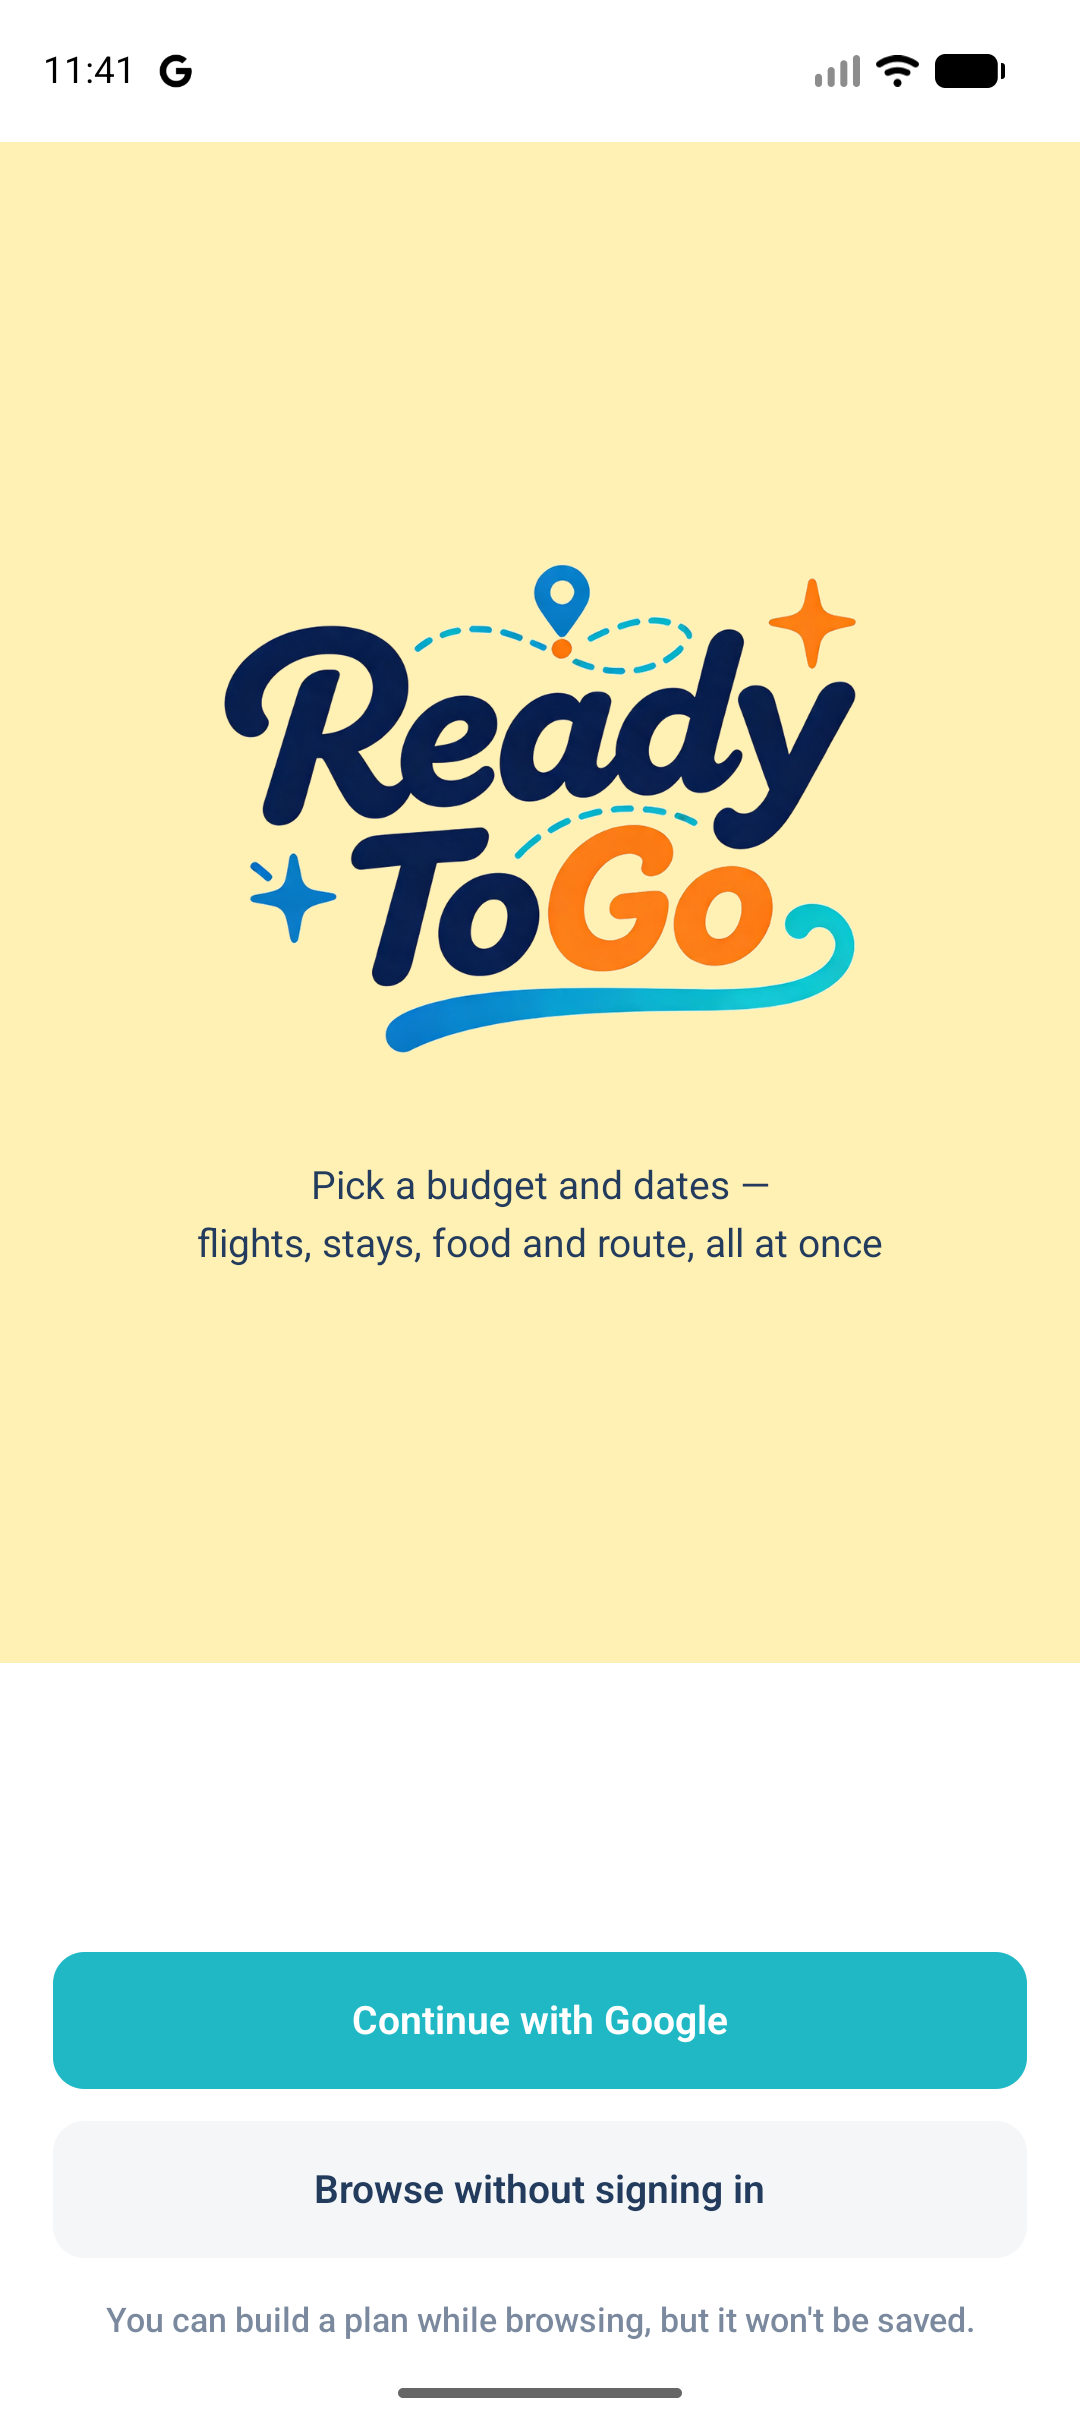
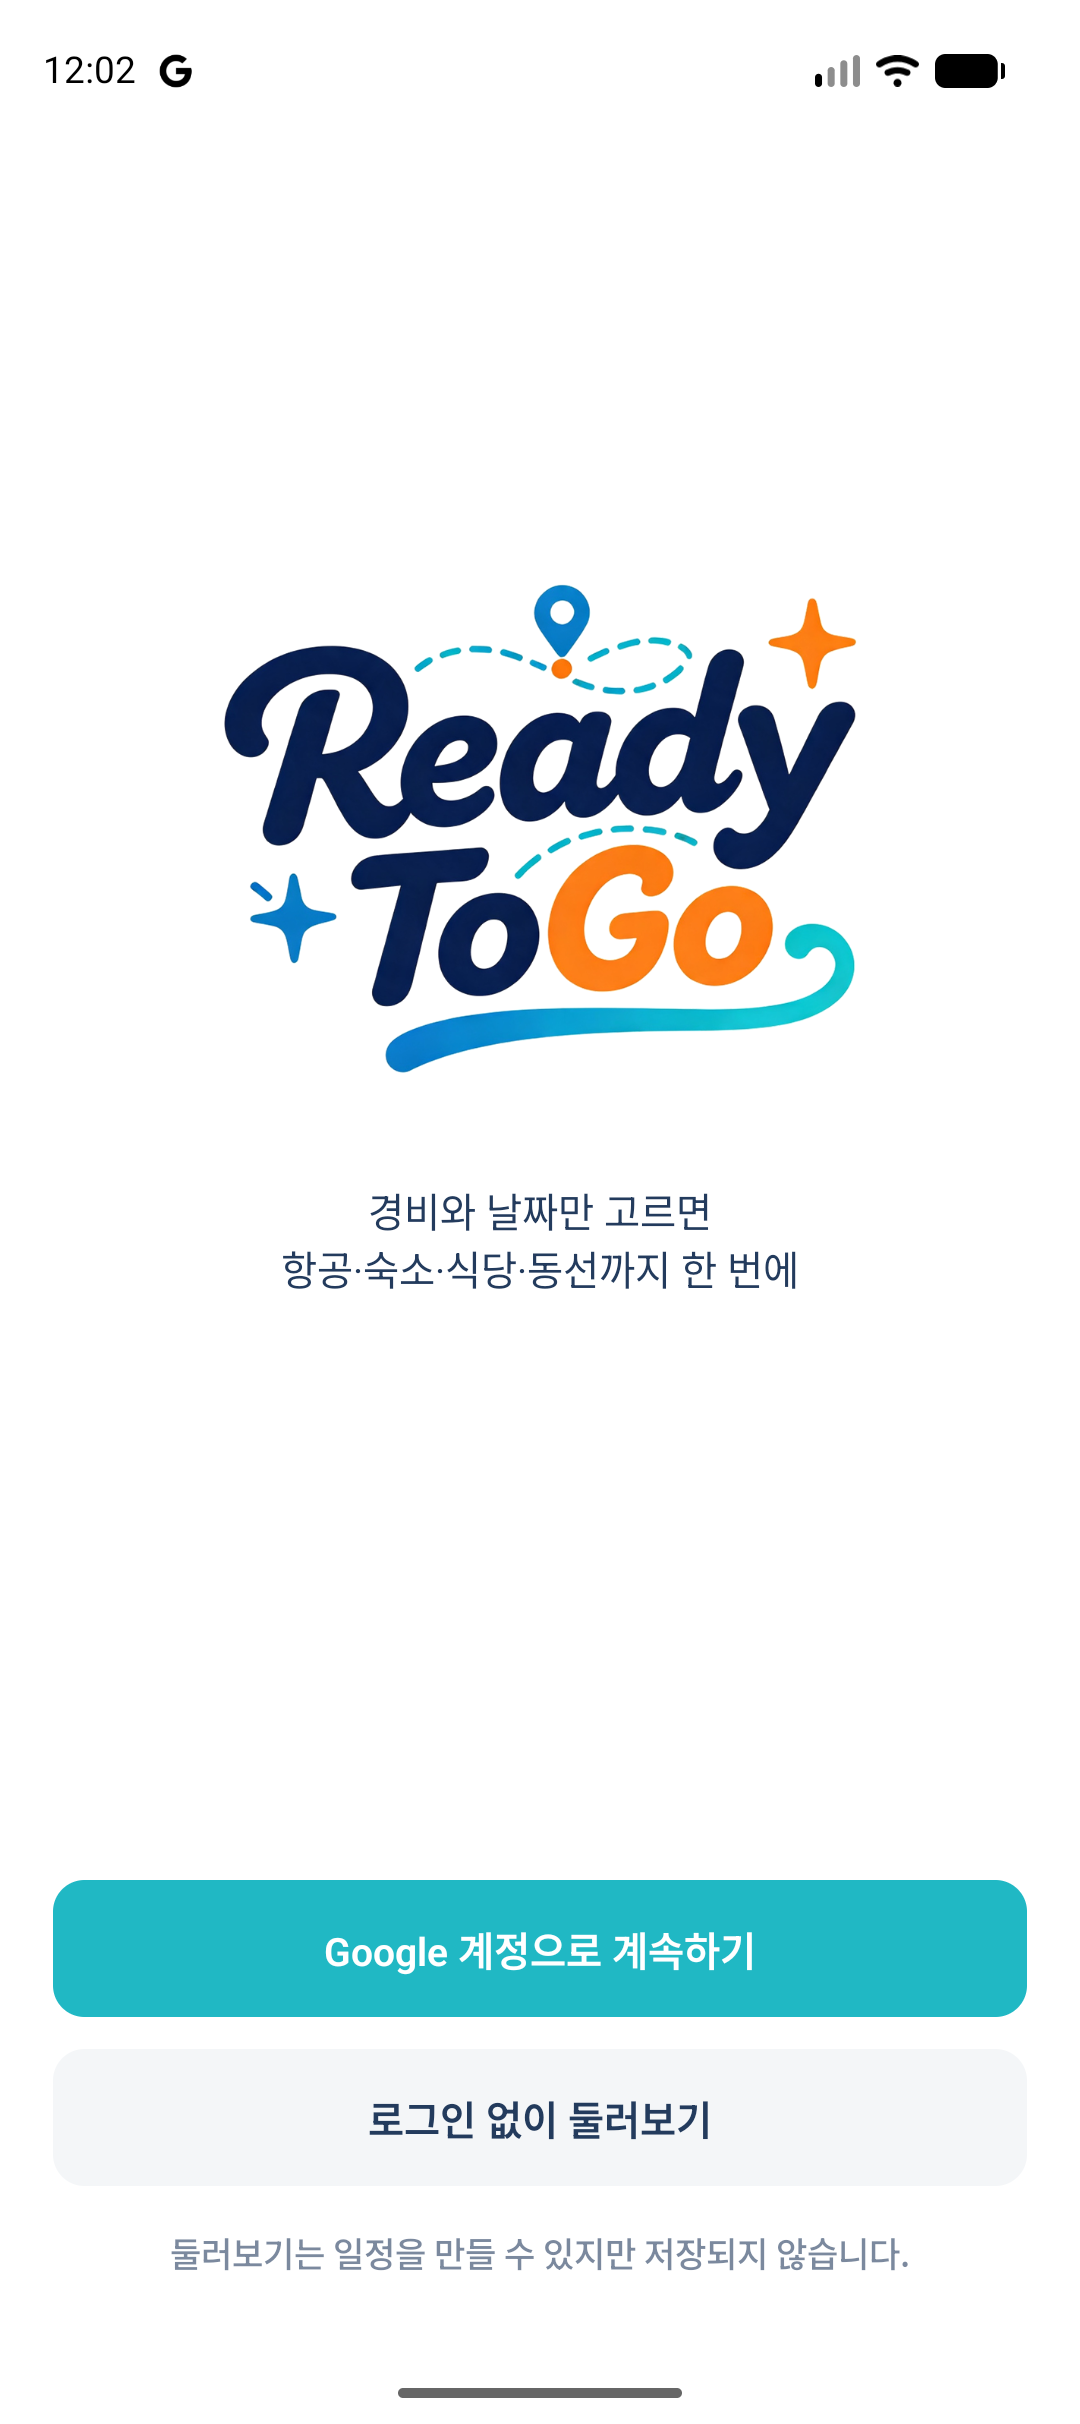
fix: 로그인 화면 배경을 흰색 한 가지 색으로
색 면이 화면 중간에서 잘려 배경이 아니라 머리띠처럼 보였다.
Surface 하나로 흰 배경을 깔고, 전용 GuestButton은 공용
SecondaryButton으로 되돌렸다.

캡처와 README의 "연노랑 영역" 설명도 같이 갱신했다.

diff --git a/app/src/main/java/kr/ac/baekseok/readytogo/ui/auth/LoginScreen.kt b/app/src/main/java/kr/ac/baekseok/readytogo/ui/auth/LoginScreen.kt
@@ -10,6 +10,7 @@ import androidx.compose.foundation.layout.fillMaxWidth
 import androidx.compose.foundation.layout.height
 import androidx.compose.foundation.layout.padding
 import androidx.compose.foundation.layout.size
+import androidx.compose.foundation.layout.systemBarsPadding
 import androidx.compose.foundation.shape.CircleShape
 import androidx.compose.material3.MaterialTheme
 import androidx.compose.material3.Surface
@@ -21,7 +22,6 @@ import androidx.compose.runtime.getValue
 import androidx.compose.ui.Alignment
 import androidx.compose.ui.Modifier
 import androidx.compose.ui.draw.clip
-import androidx.compose.ui.graphics.Brush
 import androidx.compose.ui.graphics.Color
 import androidx.compose.ui.platform.LocalContext
 import androidx.compose.ui.res.stringResource
@@ -69,93 +69,87 @@ fun LoginScreen(
         if (authState is AuthState.SignedIn) onSignedIn()
     }
 
+    // **화면 전체가 한 가지 색이다.** 전에는 위아래를 연노랑/흰색으로 나눴는데,
+    // 색 면이 중간에서 잘려 배경이 아니라 머리띠처럼 보였다.
     Surface(color = LocalPalette.current.Background, modifier = Modifier.fillMaxSize()) {
-        Column(modifier = Modifier.fillMaxSize()) {
+        Column(
+            horizontalAlignment = Alignment.CenterHorizontally,
+            modifier = Modifier
+                .fillMaxSize()
+                // 배경은 화면 끝까지 차고, 글자와 버튼만 상태바·내비게이션 바를 피한다.
+                .systemBarsPadding()
+                .padding(horizontal = Tokens.Space.screenHorizontal),
+        ) {
+            // 위아래 빈 공간의 비율. 로고를 화면 정중앙이 아니라 조금 위에 둔다 —
+            // 아래쪽 버튼 두 개가 시선을 끌어내려서, 정중앙에 두면 오히려 처져 보인다.
+            Spacer(modifier = Modifier.weight(TOP_SPACE_WEIGHT))
 
-            // 위 2/3 — 연노랑. 앱을 열자마자 보이는 면이라 여기서 분위기를 다 정한다.
-            Column(
-                horizontalAlignment = Alignment.CenterHorizontally,
-                verticalArrangement = Arrangement.Center,
-                modifier = Modifier
-                    .weight(LOGO_AREA_WEIGHT)
-                    .fillMaxWidth()
-                    .background(LocalPalette.current.Secondary)
-                    .padding(horizontal = Tokens.Space.screenHorizontal),
-            ) {
-                Wordmark(width = Tokens.Size.loginWordmark)
+            Wordmark(width = Tokens.Size.loginWordmark)
 
-                // 워드마크 아래쪽 밑줄이 글자에 붙어 있다. 문구를 가까이 두면 한 덩어리로
-                // 보여 로고가 아니라 제목처럼 읽힌다.
-                Spacer(modifier = Modifier.height(Tokens.Space.xxl))
+            // 워드마크 아래쪽 밑줄이 글자에 붙어 있다. 문구를 가까이 두면 한 덩어리로
+            // 보여 로고가 아니라 제목처럼 읽힌다.
+            Spacer(modifier = Modifier.height(Tokens.Space.xxl))
 
+            Text(
+                text = stringResource(R.string.login_tagline),
+                style = MaterialTheme.typography.bodyLarge,
+                color = LocalPalette.current.TextPrimary,
+                textAlign = TextAlign.Center,
+            )
+
+            Spacer(modifier = Modifier.weight(BOTTOM_SPACE_WEIGHT))
+
+            if (error != null) {
                 Text(
-                    text = stringResource(R.string.login_tagline),
-                    style = MaterialTheme.typography.bodyLarge,
-                    color = LocalPalette.current.TextPrimary,
-                    textAlign = TextAlign.Center,
+                    text = error.orEmpty(),
+                    style = MaterialTheme.typography.bodyMedium,
+                    color = LocalPalette.current.Danger,
+                    modifier = Modifier.padding(bottom = Tokens.Space.md),
                 )
             }
 
-            // 아래 1/3 — 흰 바탕에 할 일만. 버튼을 연노랑 위에 올리면 두 면이 경쟁한다.
-            Column(
-                modifier = Modifier
-                    .weight(ACTION_AREA_WEIGHT)
-                    .fillMaxWidth()
-                    .padding(horizontal = Tokens.Space.screenHorizontal),
-            ) {
-                Spacer(modifier = Modifier.weight(1f))
+            // Google 로고 이미지는 쓰지 않는다 — 브랜드 가이드라인이 따라붙고,
+            // 비슷하게 그려 넣는 것은 더 나쁘다. 글자로만 표기한다.
+            PrimaryButton(
+                text = stringResource(R.string.login_google),
+                onClick = { viewModel.signInWithGoogle(context) },
+                loading = signingIn,
+            )
 
-                if (error != null) {
-                    Text(
-                        text = error.orEmpty(),
-                        style = MaterialTheme.typography.bodyMedium,
-                        color = LocalPalette.current.Danger,
-                        modifier = Modifier.padding(bottom = Tokens.Space.md),
-                    )
-                }
+            Spacer(modifier = Modifier.height(Tokens.Space.md))
 
-                // Google 로고 이미지는 쓰지 않는다 — 브랜드 가이드라인이 따라붙고,
-                // 비슷하게 그려 넣는 것은 더 나쁘다. 글자로만 표기한다.
-                PrimaryButton(
-                    text = stringResource(R.string.login_google),
-                    onClick = { viewModel.signInWithGoogle(context) },
-                    loading = signingIn,
-                )
+            SecondaryButton(
+                text = stringResource(R.string.login_guest),
+                onClick = {
+                    viewModel.continueAsGuest()
+                    onSignedIn()
+                },
+            )
 
-                Spacer(modifier = Modifier.height(Tokens.Space.md))
+            Spacer(modifier = Modifier.height(Tokens.Space.lg))
 
-                SecondaryButton(
-                    text = stringResource(R.string.login_guest),
-                    onClick = {
-                        viewModel.continueAsGuest()
-                        onSignedIn()
-                    },
-                )
+            Text(
+                text = stringResource(R.string.login_guest_note),
+                style = MaterialTheme.typography.labelMedium,
+                color = LocalPalette.current.TextSecondary,
+                textAlign = TextAlign.Center,
+                modifier = Modifier.fillMaxWidth(),
+            )
 
-                Spacer(modifier = Modifier.height(Tokens.Space.lg))
-
-                Text(
-                    text = stringResource(R.string.login_guest_note),
-                    style = MaterialTheme.typography.labelMedium,
-                    color = LocalPalette.current.TextSecondary,
-                    textAlign = TextAlign.Center,
-                    modifier = Modifier.fillMaxWidth(),
-                )
-
-                Spacer(modifier = Modifier.height(Tokens.Space.xxl))
-            }
+            Spacer(modifier = Modifier.height(Tokens.Space.xxl))
         }
     }
 }
 
 /**
- * 위아래 영역 비율. 2 : 1이다.
+ * 로고 위아래 빈 공간의 비율.
  *
- * 연노랑을 절반만 쓰면 배경이 아니라 머리띠처럼 보이고, 전부 채우면 버튼이 그 위에 올라가
- * 두 면이 서로 경쟁한다.
+ * 1 : 1.4로 아래를 더 비운다. 정확히 반반으로 두면 로고가 화면 한가운데 오는데,
+ * 아래쪽 버튼 두 개가 시선을 끌어내려서 로고가 처진 것처럼 보인다.
  */
-private const val LOGO_AREA_WEIGHT = 2f
-private const val ACTION_AREA_WEIGHT = 1f
+private const val TOP_SPACE_WEIGHT = 1f
+private const val BOTTOM_SPACE_WEIGHT = 1.4f
+
 
 /** 프로필 사진이 없을 때 쓰는 이니셜 원. 설정·프로필 화면이 같이 쓴다. */
 @Composable

diff --git a/app/src/main/java/kr/ac/baekseok/readytogo/ui/navigation/ReadytogoNavHost.kt b/app/src/main/java/kr/ac/baekseok/readytogo/ui/navigation/ReadytogoNavHost.kt
@@ -146,21 +146,21 @@ private fun NavGraphBuilder.entryGraph(navController: NavHostController) {
     }
 
     composable(Routes.LOGIN) {
-        TabScreen {
-            LoginScreen(
-                onSignedIn = {
-                    // 둘러보기는 닉네임이 없으므로 바로 홈으로, 로그인은 확인을 거친다.
-                    val next = if (AppContainer.auth.authState.value.canSave) {
-                        Routes.AFTER_LOGIN
-                    } else {
-                        Routes.HOME
-                    }
-                    navController.navigate(next) {
-                        popUpTo(Routes.LOGIN) { inclusive = true }
-                    }
-                },
-            )
-        }
+        // **TabScreen으로 감싸지 않는다.** 로그인은 배경색이 화면 끝까지 차야 하는데,
+        // TabScreen이 주는 상태바 여백 때문에 위에 흰 띠가 남았다. 여백은 화면이 직접 준다.
+        LoginScreen(
+            onSignedIn = {
+                // 둘러보기는 닉네임이 없으므로 바로 홈으로, 로그인은 확인을 거친다.
+                val next = if (AppContainer.auth.authState.value.canSave) {
+                    Routes.AFTER_LOGIN
+                } else {
+                    Routes.HOME
+                }
+                navController.navigate(next) {
+                    popUpTo(Routes.LOGIN) { inclusive = true }
+                }
+            },
+        )
     }
 
     composable(Routes.AFTER_LOGIN) {

diff --git a/docs/screenshots/README.md b/docs/screenshots/README.md
@@ -7,11 +7,11 @@
 |---|---|
 | `icon.png` | 런처 홈 화면의 앱 아이콘 (독 오른쪽) |
 | `splash.png` | 시작 화면 — 흰 배경에 로고 일러스트 |
-| `login.png` | 로그인 — 연노랑 영역 + 워드마크 |
+| `login.png` | 로그인 — 흰 배경, 워드마크 + 소개 문구 |
 | `home.png` | 홈 — 다가오는 여행 카드, FAB |
 | `plan-summary.png` | 결과 화면 요약 탭 |
 
-`login.png`는 영어, 나머지는 한국어다. 앱 언어는 설정에서 바꾼다.
+전부 한국어다. 앱 언어는 설정에서 바꾼다.
 
 **찍은 환경**: 에뮬레이터 Pixel 9 / API 36.1(Android 16) / 1080×2424,
 앱 언어 한국어, 글자 크기 보통, 고대비 끔.
